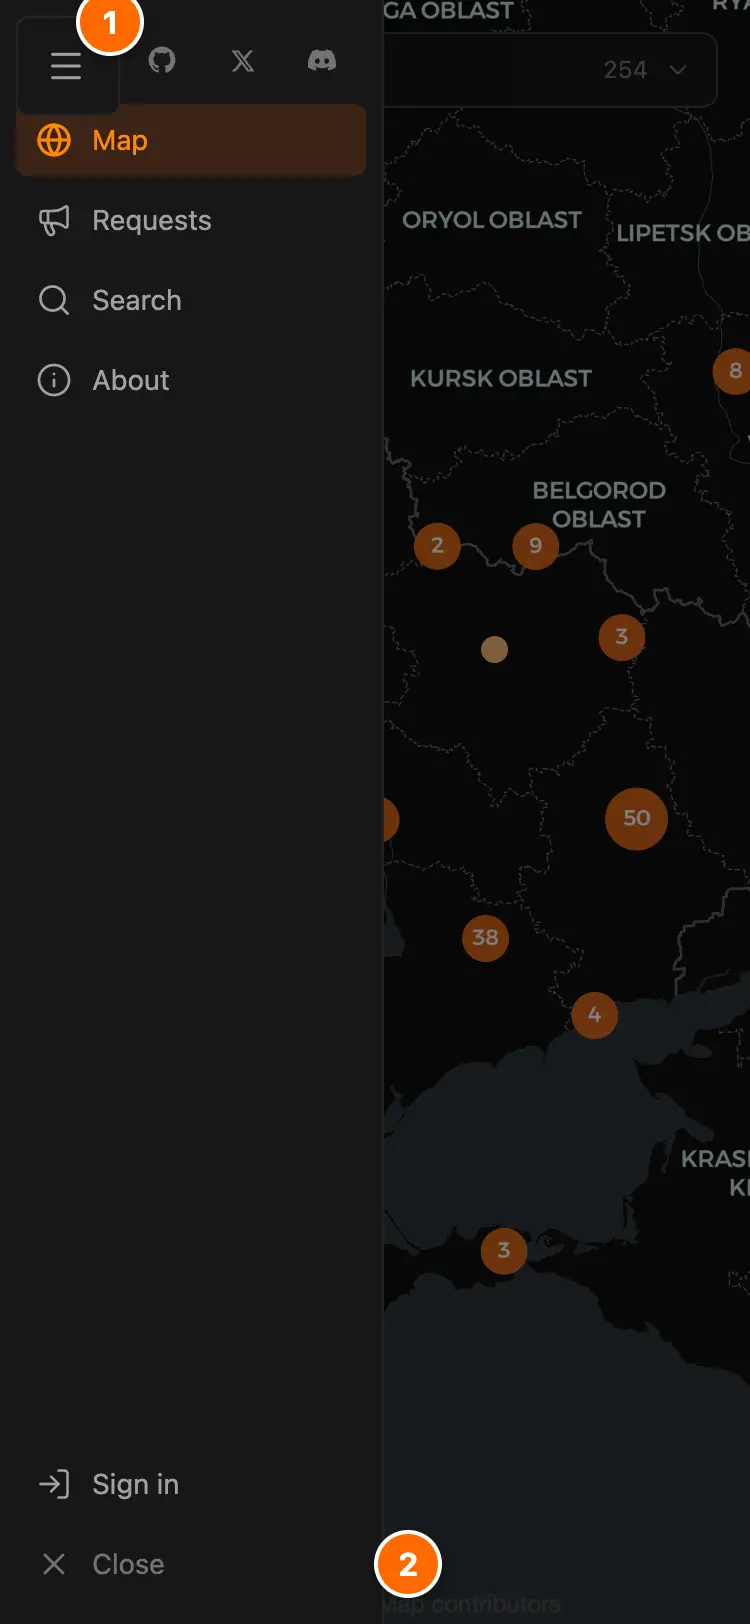
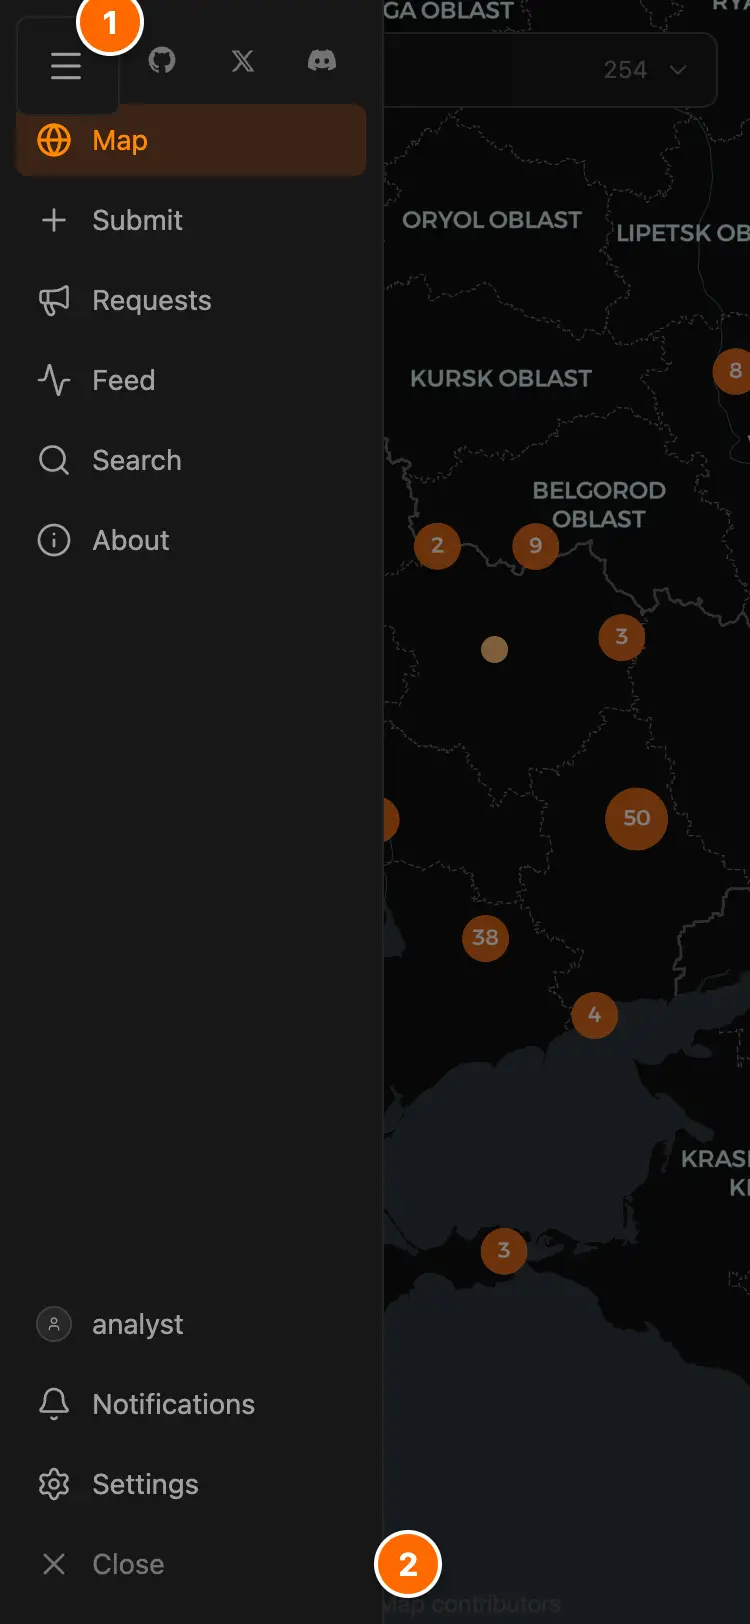
feat(guide): add signed-in screenshots and hide Requests from the signed-out rail
The layout, approvals, feed and notifications screenshots are shot signed in,
so the guide shows the full rail and the settings. The rail lists Requests
only to a signed-in reader; request pages still open from a shared link.

Refs #610

diff --git a/video/shoot-guide.js b/video/shoot-guide.js
@@ -13,8 +13,8 @@
 //
 // Two rules, both editorial:
 //
-//   1. Nothing is written. The script opens menus and drawers and reads pages;
-//      it never submits a form.
+//   1. No content is written. The script signs in, opens menus and drawers,
+//      scrolls and reads pages; it never submits a form.
 //   2. No private data. A shot with `"session": "signed-in"` signs in as
 //      GUIDE_LOGIN_EMAIL / GUIDE_LOGIN_PASSWORD, and every shot fails if an
 //      email address shows inside its frame.
@@ -23,6 +23,8 @@
 //   GUIDE_BASE   the frontend, default http://localhost:3000
 //   GUIDE_API    the API, default http://localhost:8000/api/v1 (sign-in only)
 //   GUIDE_EVENT  the published geolocation the `event` shot reads
+//   GUIDE_APPROVE_EVENT  another analyst's geolocation the `approvals` shot reads
+//   GUIDE_LOGIN_EMAIL, GUIDE_LOGIN_PASSWORD  the account the signed-in shots use
 //   GUIDE_ONLY   a comma-separated list of shot ids to re-shoot
 
 const fs = require("fs");
@@ -47,6 +49,18 @@ const PREPARE = {
   "layout-phone": async (page) => {
     await page.getByRole("button", { name: "Open navigation" }).click();
     await wait(800);
+  },
+  feed: async (page) => {
+    const empty = page.getByText(/^(You follow no analysts yet|Nothing from analysts you follow yet)$/);
+    if (await empty.count()) {
+      await page.getByRole("group", { name: "Feed scope" }).getByRole("button", { name: "All" }).click();
+      await wait(2500);
+    }
+  },
+  notifications: async (page) => {
+    const box = await page.getByRole("group", { name: "Accept approval requests from" }).boundingBox();
+    await page.evaluate((dy) => window.scrollBy(0, dy), box.y - 115);
+    await wait(500);
   },
 };
 
@@ -99,18 +113,19 @@ async function assertNoEmail(page, clip) {
   const hit = await page.evaluate(
     ({ clip, source }) => {
       const pattern = new RegExp(source);
+      const inside = (r) =>
+        r.right > clip.x && r.bottom > clip.y && r.left < clip.x + clip.width && r.top < clip.y + clip.height;
       const walker = document.createTreeWalker(document.body, NodeFilter.SHOW_TEXT);
       for (let node = walker.nextNode(); node; node = walker.nextNode()) {
         if (!pattern.test(node.textContent)) continue;
         const range = document.createRange();
         range.selectNodeContents(node);
         for (const r of range.getClientRects()) {
-          if (r.right > 0 && r.bottom > 0 && r.left < clip.width && r.top < clip.height) return node.textContent;
+          if (inside(r)) return node.textContent;
         }
       }
       for (const input of document.querySelectorAll("input")) {
-        const r = input.getBoundingClientRect();
-        if (pattern.test(input.value) && r.left < clip.width && r.top < clip.height && r.bottom > 0) return input.value;
+        if (pattern.test(input.value) && inside(input.getBoundingClientRect())) return input.value;
       }
       return null;
     },

diff --git a/frontend/src/app/guide/page.tsx b/frontend/src/app/guide/page.tsx
@@ -4,7 +4,6 @@ import Image from "next/image";
 import Link from "next/link";
 import {
   AtSign,
-  Bell,
   Building2,
   ClipboardCheck,
   Globe,
@@ -13,9 +12,7 @@ import {
   Menu,
   Plus,
   Settings,
-  Stamp,
   User,
-  UserPlus,
   Users,
   type LucideIcon,
 } from "lucide-react";
@@ -135,18 +132,14 @@ const DETECTION_STEPS = [
 ];
 
 const OTHERS = [
-  { icon: Stamp, title: "Approve", note: "Back the current version of another analyst's geolocation." },
-  { icon: ClipboardCheck, title: "Request approval", note: "Ask an analyst or an organization to approve yours." },
+  { icon: ClipboardCheck, title: "Request approval", note: "Ask an analyst or an organization to approve your geolocation." },
   { icon: Users, title: "Co-geolocators", note: "Once you accept an owner's invite, every byline credits you." },
   { icon: Building2, title: "Organizations", note: "Members approve in the organization's name." },
-  { icon: UserPlus, title: "Follow", note: "Their new geolocations and requests fill your Feed." },
 ];
 
 const SETTINGS = [
   { icon: User, title: "Profile", note: "Your public portfolio: picture, bio and links." },
   { icon: AtSign, title: "X handle", note: "Request the link the imports need." },
-  { icon: Bell, title: "Notifications", note: "Email and push, per kind." },
-  { icon: ClipboardCheck, title: "Approval requests", note: "People you follow, everyone, or nobody." },
   { icon: Settings, title: "Display", note: "Light mode, accent color, question marks." },
 ];
 
@@ -241,6 +234,9 @@ export default function GuidePage() {
       </Section>
 
       <Section id="working-with-others">
+        <Shot id="approvals" />
+        <h3 className={SUBHEADING}>Your Feed</h3>
+        <Shot id="feed" />
         <div className={TILES}>
           {OTHERS.map(({ icon, title, note }) => (
             <IconTile key={title} icon={glyph(icon)} title={title} note={note} />
@@ -249,6 +245,7 @@ export default function GuidePage() {
       </Section>
 
       <Section id="settings" lead="Settings sits at the foot of the rail once you are signed in.">
+        <Shot id="notifications" />
         <div className={TILES}>
           {SETTINGS.map(({ icon, title, note }) => (
             <IconTile key={title} icon={glyph(icon)} title={title} note={note} />

diff --git a/frontend/src/components/Sidebar.test.tsx b/frontend/src/components/Sidebar.test.tsx
@@ -1,5 +1,5 @@
 import { act, fireEvent, render, screen } from "@testing-library/react";
-import { beforeEach, describe, expect, it, vi } from "vitest";
+import { afterEach, beforeEach, describe, expect, it, vi } from "vitest";
 
 import Sidebar from "./Sidebar";
 
@@ -11,10 +11,13 @@ const viewer = vi.hoisted(() => ({
   detections: 0,
   unread: 0,
   pathname: "/map",
+  signedOut: false,
 }));
 vi.mock("@/contexts/AuthContext", () => ({
   useAuth: () => ({
-    user: { id: "u1", username: "analyst", avatar_url: viewer.avatar_url },
+    user: viewer.signedOut
+      ? null
+      : { id: "u1", username: "analyst", avatar_url: viewer.avatar_url },
     loading: false,
   }),
 }));
@@ -251,6 +254,37 @@ describe("Sidebar drawer controls", () => {
     expect(entry).not.toHaveClass("text-neutral-400");
     expect(screen.getByRole("link", { name: "Map" })).toHaveClass(
       "text-neutral-400",
+    );
+  });
+});
+
+describe("Sidebar signed-out rail", () => {
+  beforeEach(() => {
+    viewer.signedOut = true;
+    viewer.pathname = "/map";
+  });
+  afterEach(() => {
+    viewer.signedOut = false;
+  });
+
+  it("hides the entries that need a session and keeps the public ones", () => {
+    render(<Sidebar />);
+
+    for (const name of ["Submit", "Requests", "Feed"]) {
+      expect(screen.queryByRole("link", { name })).toBeNull();
+    }
+    for (const name of ["Map", "Search", "About", "Sign in"]) {
+      expect(screen.getByRole("link", { name })).toBeInTheDocument();
+    }
+  });
+
+  it("shows Requests once signed in", () => {
+    viewer.signedOut = false;
+    render(<Sidebar />);
+
+    expect(screen.getByRole("link", { name: "Requests" })).toHaveAttribute(
+      "href",
+      "/requests",
     );
   });
 });

diff --git a/frontend/src/components/Sidebar.tsx b/frontend/src/components/Sidebar.tsx
@@ -71,9 +71,9 @@ interface NavItem {
 }
 
 // Order: Map, Submit, Requests, Feed, Search, About (public/meta plus the guides hub) last.
-// The bot guide is reached from About and X itself. Home has no slot (the logo links it). Submit
-// and Feed carry `auth: true` and hide signed-out. Profile, Notifications, Settings, Sign-in
-// and Sign-out are the identity block at the bottom.
+// The bot guide is reached from About and X itself. Home has no slot (the logo links it). Submit,
+// Requests and Feed carry `auth: true` and hide signed-out. Profile, Notifications, Settings,
+// Sign-in and Sign-out are the identity block at the bottom.
 const NAV_ITEMS: ReadonlyArray<NavItem> = [
   {
     href: "/map",
@@ -87,6 +87,7 @@ const NAV_ITEMS: ReadonlyArray<NavItem> = [
     href: "/requests",
     icon: Megaphone,
     label: "Requests",
+    auth: true,
     activeFor: (p) => p === "/requests" || p.startsWith("/requests/"),
   },
   { href: "/feed", icon: Activity, label: "Feed", auth: true },

diff --git a/frontend/src/app/guide/page.test.tsx b/frontend/src/app/guide/page.test.tsx
@@ -53,6 +53,17 @@ describe("/guide", () => {
     }
   });
 
+  it("leads the signed-in sections with their screenshots", () => {
+    render(<GuidePage />);
+
+    const shotsIn = (id: string) =>
+      Array.from(document.getElementById(id)!.closest("section")!.querySelectorAll("img")).map(
+        (img) => img.getAttribute("alt"),
+      );
+    expect(shotsIn("working-with-others")).toEqual([SHOTS.approvals.alt, SHOTS.feed.alt]);
+    expect(shotsIn("settings")).toEqual([SHOTS.notifications.alt]);
+  });
+
   it("renders the walkthrough video only when its URL is set", () => {
     vi.stubEnv("NEXT_PUBLIC_GUIDE_VIDEO_URL", "");
     const { container, unmount } = render(<GuidePage />);

diff --git a/docs/design.md b/docs/design.md
@@ -160,7 +160,7 @@ Constants: the pill tones live on `<Pill>` as `PILL_TONE`. [`styles.ts`](../fron
 └────┴─────────────────────────────────────────────┘
 ```
 
-- **Sidebar rail:** left nav (logo, working surfaces, identity block), a fixed column from `sm` up, which every page clears through `PageFrame`'s `sm:pl-14`. Below `sm` it is a drawer behind a floating menu chip and takes no inset at all; see [Phone chrome](#phone-chrome).
+- **Sidebar rail:** left nav (logo, working surfaces, identity block), a fixed column from `sm` up, which every page clears through `PageFrame`'s `sm:pl-14`. Submit, Requests and Feed show only to a signed-in reader; a signed-out reader gets Map, Search, About and Sign in. Below `sm` it is a drawer behind a floating menu chip and takes no inset at all; see [Phone chrome](#phone-chrome).
 - **Map:** full-screen background on `/map`.
 - **Left panel:** filters, opaque, floating over the map.
 - **Right panel:** event detail, appears on click, dismissible. When the selected event fails to load, the panel shows the error message and a Retry control, never a previously selected event.
@@ -394,7 +394,7 @@ flowchart LR
   badge["`**StatusBadge**
   one per status`"]:::shared
   shots["`**shots.json**
-  file, window, markers and their labels`"]:::data
+  file, window, session, markers and their labels`"]:::data
   script["`**video/shoot-guide.js**
   writes public/guide/*.webp`"]:::data
   imp["`**/import**
@@ -412,19 +412,19 @@ flowchart LR
   page -->|"Bringing your work in"| imp
 ```
 
-[`/guide`](../frontend/src/app/guide/page.tsx) is a server component of `PageShell` plus `Card`, like the other guides. The page shows rather than tells: each section is a title, at most one sentence, and an annotated screenshot or a row of `IconTile`s. The intro card holds the walkthrough video and one `IconTile` per section, linked to its anchor, with the icon the product already uses for that concept. Each section is a `Card` whose `h2` carries the anchor:
+[`/guide`](../frontend/src/app/guide/page.tsx) is a server component of `PageShell` plus `Card`, like the other guides. The page shows rather than tells: each section is a title, at most one sentence, annotated screenshots, and at most one row of `IconTile`s for what no screenshot shows. The intro card holds the walkthrough video and one `IconTile` per section, linked to its anchor, with the icon the product already uses for that concept. Each section is a `Card` whose `h2` carries the anchor:
 
 | Anchor | Heading | What it shows |
 |---|---|---|
-| `#layout` | The layout | A screenshot of the rail on the map, and one of the phone drawer |
+| `#layout` | The layout | A screenshot of the signed-in rail on the map, and one of the phone drawer |
 | `#reading-a-geolocation` | Reading a geolocation | A screenshot of an event page: byline, source media, coordinates, source and archived copy, details, proof, versions, share and report, approvals |
 | `#statuses` | The statuses | The four `StatusBadge`s with one line each, and the steps from detection to geolocation |
 | `#bringing-your-work-in` | Bringing your work in | Tiles to the archive, a pasted post and @ViditBot on `/import`, and to the submit form |
-| `#working-with-others` | Working with others | Tiles for approving, requesting an approval, co-geolocators, organizations and following |
-| `#settings` | Your settings | Tiles for the profile, the X handle, notification channels, approval requests and display |
+| `#working-with-others` | Working with others | A screenshot of the Approvals card on another analyst's geolocation, one of the Feed, and tiles for requesting an approval, co-geolocators and organizations |
+| `#settings` | Your settings | A screenshot of the Notifications card (who can request your approval, the email and push switch per kind), and tiles for the profile, the X handle and display |
 
 - **Anchors are contract.** Other pages and messages link to a section by its id, so keep every id when you edit a heading. Each heading takes `max-sm:scroll-mt-16`, so a jump on a phone lands below the menu chip.
-- **One marker list.** [`shots.json`](../frontend/src/app/guide/shots.json) names each screenshot's file, route, window and markers. A marker is a target element and its legend line. [`video/shoot-guide.js`](../video/shoot-guide.js) draws a numbered orange disc beside each target and writes the WebP to `frontend/public/guide/`; the page numbers the same labels with `NumberedSteps` under the image. Change a marker in the JSON, then re-shoot (see [`video/README.md`](../video/README.md#getting-started-screenshots)).
+- **One marker list.** [`shots.json`](../frontend/src/app/guide/shots.json) names each screenshot's file, route, window, session and markers. The layout, Approvals, Feed and Notifications shots are signed in. A marker is a target element and its legend line. [`video/shoot-guide.js`](../video/shoot-guide.js) draws a numbered orange disc beside each target and writes the WebP to `frontend/public/guide/`; the page numbers the same labels with `NumberedSteps` under the image. Change a marker in the JSON, then re-shoot (see [`video/README.md`](../video/README.md#getting-started-screenshots)).
 - **The video slot.** The walkthrough is [`DemoVideo`](../frontend/src/components/landing/DemoVideo.tsx), the landing's click-to-play player, in an `aspect-video` frame at the top of the intro card. It loads with `preload="metadata"`, so a phone fetches the first frame and nothing more until you press play. It renders only while `NEXT_PUBLIC_GUIDE_VIDEO_URL` holds a direct video file URL. The video is hosted like the landing demo (see [`engineering.md`](engineering.md#operating-the-platform-clis)).
 - **Grounded in the product.** The page names only controls that exist, under the labels the product prints. A change to a surface the page shows updates its screenshot or its tile in the same PR.
 
@@ -1164,7 +1164,7 @@ Opening one is [`/collections/new`](../frontend/src/app/collections/new/page.tsx
 
 ### Requests board
 
-[`/requests`](../frontend/src/app/requests/page.tsx) lists open requests from [`GET /events`](api.md#get-events) with `view=requested&status=requested`, cursor-paged behind a **Load more** button.
+[`/requests`](../frontend/src/app/requests/page.tsx) lists open requests from [`GET /events`](api.md#get-events) with `view=requested&status=requested`, cursor-paged behind a **Load more** button. The board is public by link, but the rail lists it only for a signed-in reader. On a request page, a signed-out reader sees **Geolocate** in the Actions card, which opens the sign-in page and returns to the submit form.
 
 - The status is fixed to `requested`. The board mounts the shared filter panel ([`EventFilterSections`](../frontend/src/components/filters/EventFilterSections.tsx)) in the [filter rail](#right-rail) without its Status section, because a `closed` chip would read as "done" on a work queue. Source media is also left out, because `GET /events` takes no `media` filter.
 - The panel offers Conflict, Capture source, Location guess, Tags and Author. Location guess is offered on the board alone. **With a guess** keeps requests that carry a guessed point, **No guess** keeps the blind ones, and picking both or neither drops the filter. The section sends [`has_coords`](api.md#get-events).

diff --git a/video/README.md b/video/README.md
@@ -168,13 +168,13 @@ To publish, upload `out/guide-walkthrough.mp4` to the media bucket under `landin
 | Field | What it sets |
 |---|---|
 | `file` | The WebP under `frontend/public/guide/` |
-| `route` | The page to open. `{event}` reads `GUIDE_EVENT` |
+| `route` | The page to open. `{event}` reads `GUIDE_EVENT`, `{approve_event}` reads `GUIDE_APPROVE_EVENT` |
 | `viewport`, `dpr` | The window in CSS pixels and its device pixel ratio |
-| `clip` | The captured area from the top left, when it is smaller than the window |
+| `clip` | The captured area, when it is smaller than the window. `x` and `y` offset it from the top left |
 | `session` | `signed-in` to sign in first; signed out when absent |
 | `markers` | In order: `target` (a Playwright selector), `place` (`left`, `right`, `top-left` or `top-right` of the target's box), and `label` (the legend line) |
 
-A shot that needs a control opened first (the rail expanded, the phone drawer open) gets a step in `PREPARE` in `shoot-guide.js`.
+A shot that needs a control opened first or a page scrolled (the rail expanded, the phone drawer open, the Notifications card of Settings at the top) gets a step in `PREPARE` in `shoot-guide.js`. The `feed` step switches to **All** when the account follows nobody or the analysts it follows have posted nothing.
 
 Set these before a shoot:
 
@@ -183,13 +183,22 @@ Set these before a shoot:
 | `GUIDE_BASE` | The frontend, `http://localhost:3000` by default |
 | `GUIDE_API` | The API, `http://localhost:8000/api/v1` by default. Read only for the sign-in |
 | `GUIDE_EVENT` | The published geolocation the `event` shot reads. Pick one with source media, an archived source, a proof image and at least one approval |
+| `GUIDE_APPROVE_EVENT` | Another analyst's published geolocation the `approvals` shot reads, signed in. Pick one with approvals the account has not given yet, so **Approve** shows |
+| `GUIDE_LOGIN_EMAIL`, `GUIDE_LOGIN_PASSWORD` | The account the signed-in shots use. Its username shows in the rail |
 | `GUIDE_ONLY` | Optional. A comma-separated list of shot ids to re-shoot |
 
 ```bash
 GUIDE_EVENT=… make guide-shots
 ```
 
-The script writes nothing to the instance. It fails when a target is missing and when an email address shows inside a frame. Open every image before you commit it: the shots show the instance's real handles, media and coordinates, so shoot against an instance you are willing to publish. Keep each file under 150 KB.
+To re-shoot only the signed-in shots, read the password into the environment first, so it stays out of your shell history, then run the one-line command:
+
+```bash
+read -rs GUIDE_LOGIN_PASSWORD && export GUIDE_LOGIN_PASSWORD
+GUIDE_ONLY=layout,layout-phone,approvals,feed,notifications GUIDE_LOGIN_EMAIL=… GUIDE_APPROVE_EVENT=… make guide-shots
+```
+
+The script changes no content on the instance: it signs in, opens menus and drawers, and scrolls. It fails when a target is missing and when an email address shows inside a frame, so the Settings shot starts below the Account card. Open every image before you commit it: the shots show the instance's real handles, media and coordinates, so shoot against an instance you are willing to publish. Keep each file under 150 KB.
 
 ## Outputs
 

diff --git a/CHANGELOG.md b/CHANGELOG.md
@@ -10,6 +10,7 @@ What shipped in each release, newest first. The format follows [Keep a Changelog
 
 ### Changed
 
+- The rail shows Requests only to a signed-in reader; a request page still opens from a shared link ([#611](https://github.com/vidithq/vidit/pull/611)).
 - The landing roadmap lists v0.8 cleanup and restructuring, v0.9 moderation, v0.10 search and discovery, and a v1.0 that opens reader accounts while publishing stays with contributors ([#607](https://github.com/vidithq/vidit/pull/607)).
 
 ### Fixed
